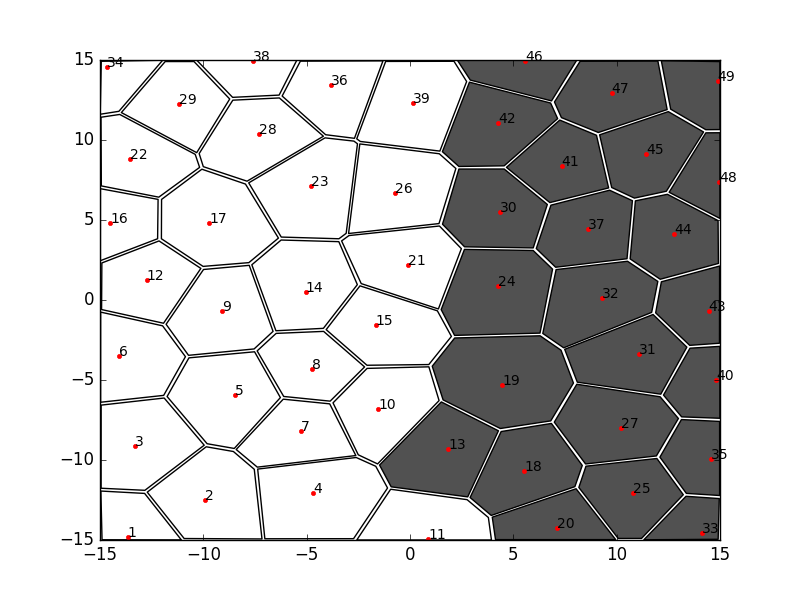
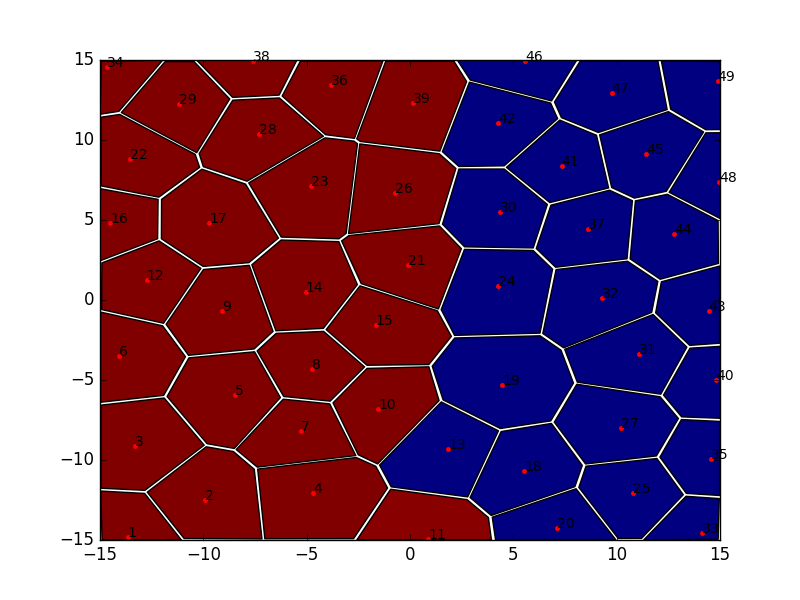
PolyCollection paint with cmap

diff --git a/voronoi/paint.py b/voronoi/paint.py
@@ -1,4 +1,4 @@
-import matplotlib
+import matplotlib as mpl
 import matplotlib.cm as cm
 import matplotlib.pyplot as plt
 import numpy as np
@@ -53,7 +53,15 @@ print('point_list: %d, region_list: %d, result_list: %d' % (len(point_list), len
 fig = plt.figure()
 ax = fig.gca()
 plt.axis((-15, 15, -15, 15))
-#
+# only hard result
+result_array = []
+for i, result in enumerate(result_list):
+    if i %  2 == 0:
+        result_array.append(result)
+result_array = np.array(result_array)
+result_max = result_array.max()
+result_min = result_array.min()
+result_normal = mpl.colors.Normalize(vmin=result_min, vmax=result_max)
 Greys = cm.get_cmap('Greys')
 Up_color = Greys(0)
 Down_color = Greys(192)
@@ -65,7 +73,8 @@ for i in range(len(point_list)):
     else:
         color_list[i] = Down_color
 # region_list
-poly_coll = matplotlib.collections.PolyCollection(region_list, facecolors=color_list)
+poly_coll = mpl.collections.PolyCollection(region_list, norm=result_normal, cmap=cm.get_cmap('jet'))
+poly_coll.set_array(result_array)
 ax.add_collection(poly_coll)
 # point_list
 for i in range(len(point_list)):
